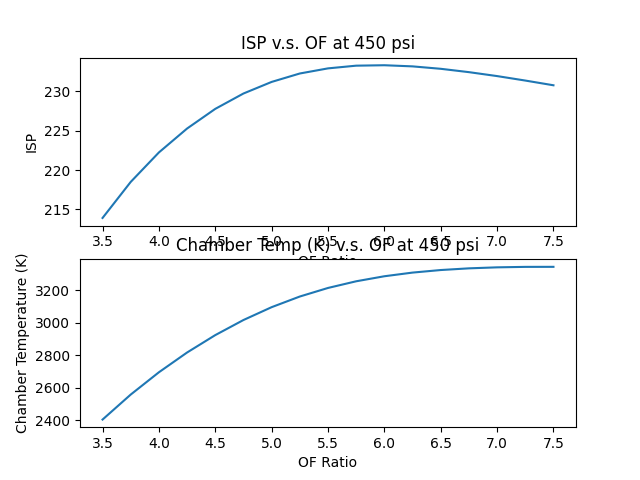
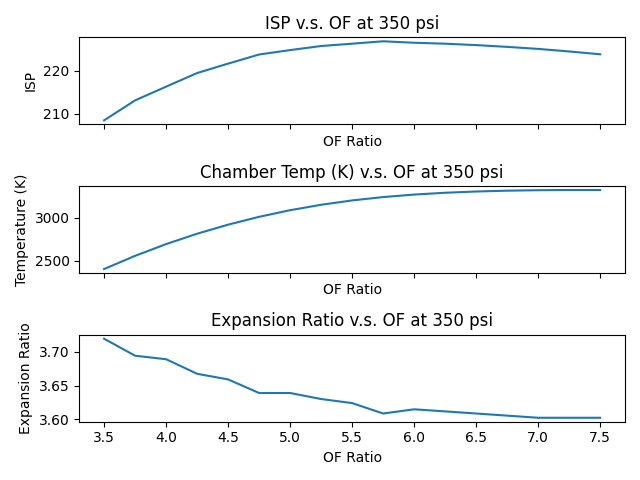
imported all propep data

diff --git a/graphs.py b/graphs.py
@@ -1,31 +1,61 @@
 import pandas as pd
 import numpy as np
 import matplotlib.pyplot as plt
-import matplotlib
-df450 = pd.read_csv("data/450psi.csv")
+from calculations import getOptimumExpansionRatio
 
-"""
-Graphs for ISP v.s. OF, 
-Temperature v.s. OF, 
-Expansion Ratio v.s. OF
-"""
-OF = df450["OF_RATIO"].to_numpy()
-ISP = df450["ISP"].to_numpy()
-TEMP = df450["CHAMBER_TEMP"].to_numpy()
+def getData(path, pressure):
+    df = pd.read_csv(path)
+    
+    OF = df["OF_RATIO"].to_numpy()
+    ISP = df["ISP"].to_numpy()
+    TEMP = df["CHAMBER_TEMP"].to_numpy()
+    CP_CV = df["CP_CV"].to_numpy()
 
-fig, axs = plt.subplots(2)
-axs[0].plot(OF,ISP)
-axs[0].set_title("ISP v.s. OF at 450 psi")
-axs[0].set_xlabel("OF Ratio")
-axs[0].set_ylabel("ISP")
 
-axs[1].plot(OF,TEMP)
-axs[1].set_xlabel("OF Ratio")
-axs[1].set_ylabel("Chamber Temperature (K)")
-axs[1].set_title("Chamber Temp (K) v.s. OF at 450 psi")
-#axs[0].xlabel("OF Ratio")
-#axs[0].ylabel("ISP")
-#axs[0].title(f"ISP v.s. OF at {450} psi")
-plt.savefig("example.png")
-print(matplotlib.get_backend())
+    fig, axs = plt.subplots(3, sharex = True) 
+    """
+    Plot in the following order:
+    Graphs for ISP v.s. OF, 
+    Temperature v.s. OF, 
+    Expansion Ratio v.s. OF
+    """
+    #ISP v.s. OF Plot
+    axs[0].plot(OF,ISP)
+    axs[0].set_xlabel("OF Ratio")
+    axs[0].set_ylabel("ISP")
+    axs[0].set_title(f"ISP v.s. OF at {pressure} psi")
+
+
+    #Temp v.s. OF Plot
+    axs[1].plot(OF,TEMP)
+    axs[1].set_xlabel("OF Ratio")
+    axs[1].set_ylabel("Temperature (K)")
+    axs[1].set_title(f"Chamber Temp (K) v.s. OF at {pressure} psi")
+
+    #expansion ratio calculation (Ae / A*) and epsilon v.s. OF
+    exp_ratios = []
+    for i in range(len(df)):
+        exp_ratios.append(getOptimumExpansionRatio(TEMP[i], CP_CV[i], pressure))
+                          
+    exp_ratios = np.array(exp_ratios)
+    axs[2].plot(OF, exp_ratios)
+    axs[2].set_xlabel("OF Ratio")
+    axs[2].set_ylabel("Expansion Ratio")
+    axs[2].set_title(f"Expansion Ratio v.s. OF at {pressure} psi")
+
+
+
+    
+    fig.tight_layout()
+
+
+    plt.savefig("example.png")
+    #print(matplotlib.get_backend())
+getData("data/350psi.csv",350)
+
+    
+
+
+
+
 

diff --git a/calculations.py b/calculations.py
@@ -1,0 +1,17 @@
+from math import sqrt
+from math import pow
+
+def getOptimumExpansionRatio(T, k, P0):
+    """
+    Returns the optimum expansion ratio assuming the 
+    ambient pressure is 14.7 psi. Assumes T is in K, P0 is in PSI (ratio with 14.7 is dimensionless), k is dimensionless
+    """
+    pressure_ratio = 14.7/P0
+    first_term = pow((k + 1) / 2, 1 / (k-1))
+    second_term = pow(pressure_ratio, 1 / k)
+    third_term = sqrt((k+1)/(k-1) * pow(pressure_ratio, (k-1) / k))
+    
+    epsilon = 1 / (first_term * second_term * third_term)
+    return epsilon
+
+
